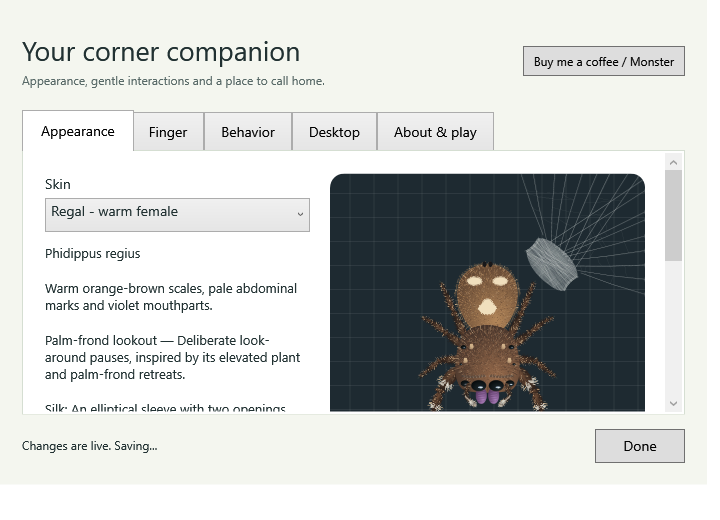
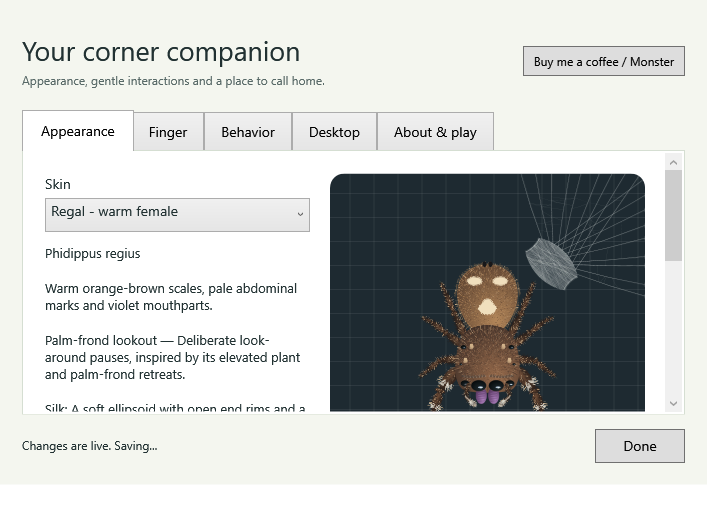
Show only the original QR in the optional support flyout

Changed region(s): [[0.7333, 0.3385, 0.8861, 0.5538], [0.1222, 0.7692, 0.4278, 0.8]]

diff --git a/SupportBanner.cs b/SupportBanner.cs
@@ -1,5 +1,4 @@
 using System;
-using System.Diagnostics;
 using System.Windows;
 using System.Windows.Controls;
 using System.Windows.Controls.Primitives;
@@ -9,9 +8,8 @@ using System.Windows.Media.Imaging;
 
 namespace CornerSpider {
     public static class SupportBanner {
-        // Public recipient supplied by the creator. No payment credentials or SDK.
-        public const string CashTag="$tedparkes";
-        public const string PaymentUrl="https://cash.app/$tedparkes?qr=1";
+        // The creator's original payment QR is the only support destination.
+        // No recipient text, browser launch, payment credentials or SDK.
         static BitmapImage qr;
         public static BitmapImage Qr { get {
             if(qr==null) using(var stream=typeof(SupportBanner).Assembly.GetManifestResourceStream("CornerSpider.SupportQr.png")) {
@@ -20,19 +18,9 @@ namespace CornerSpider {
             }
             return qr;
         } }
-        public static bool ValidPaymentLink(string value) {
-            Uri uri;
-            return Uri.TryCreate(value,UriKind.Absolute,out uri) && uri.Scheme=="https" && uri.Host=="cash.app" && uri.IsDefaultPort && uri.UserInfo.Length==0 && uri.Fragment.Length==0 && uri.AbsolutePath=="/$tedparkes" && (uri.Query.Length==0 || uri.Query=="?qr=1");
-        }
-        public static bool OpenPayment(bool diagnostic) {
-            if(diagnostic || !ValidPaymentLink(PaymentUrl)) return false;
-            try { Process.Start(new ProcessStartInfo(PaymentUrl) { UseShellExecute=true });return true; }
-            catch(System.ComponentModel.Win32Exception) { return false; }
-            catch(InvalidOperationException) { return false; }
-        }
         static TextBlock Label(string text,double size) { return new TextBlock { Text=text,FontSize=size,TextWrapping=TextWrapping.Wrap,Foreground=new SolidColorBrush(Color.FromRgb(32,55,43)),Margin=new Thickness(0,0,0,5) }; }
-        public static FrameworkElement Create(Window owner,bool diagnostic,out Button supportButton) {
-            var button=new Button { Content="Buy me a coffee / Monster",FontSize=12,Padding=new Thickness(10,6,10,6),Margin=new Thickness(18,0,0,10),VerticalAlignment=VerticalAlignment.Center,ToolTip="Optional support — show the Cash App link and QR" };
+        public static FrameworkElement Create(Window owner,out Button supportButton) {
+            var button=new Button { Content="Buy me a coffee / Monster",FontSize=12,Padding=new Thickness(10,6,10,6),Margin=new Thickness(18,0,0,10),VerticalAlignment=VerticalAlignment.Center,ToolTip="Optional support — show the Cash App QR code" };
             supportButton=button;
             System.Windows.Automation.AutomationProperties.SetName(button,"Buy me a coffee / Monster");
             var popup=new Popup { PlacementTarget=button,Placement=PlacementMode.Bottom,AllowsTransparency=true,StaysOpen=false };
@@ -41,10 +29,8 @@ namespace CornerSpider {
             panel.Children.Add(Label("Buy me a coffee / Monster",19));
             panel.Children.Add(Label("Optional support. Corner Spider stays free.",12));
             var code=new Image { Source=Qr,Width=272,Height=272,Stretch=Stretch.Uniform,Margin=new Thickness(0,8,0,12) };
-            System.Windows.Automation.AutomationProperties.SetName(code,"Original Cash App QR for "+CashTag);panel.Children.Add(code);
-            var link=new Button { Content="Open Cash App · "+CashTag+"  ↗",Padding=new Thickness(8,6,8,6),ToolTip=PaymentUrl };
-            link.Click+=delegate { if(!OpenPayment(diagnostic) && !diagnostic) MessageBox.Show(owner,"Couldn't open your browser. You can scan the QR or visit "+PaymentUrl,"Cash App"); };
-            panel.Children.Add(link);
+            System.Windows.Automation.AutomationProperties.SetName(code,"Cash App support QR code. Scan with your phone.");panel.Children.Add(code);
+            panel.Children.Add(Label("Scan with your phone to support Corner Spider.",12));
             var close=new Button { Content="Close",Margin=new Thickness(0,10,0,0),Padding=new Thickness(12,5,12,5),HorizontalAlignment=HorizontalAlignment.Right };
             close.Click+=delegate { popup.IsOpen=false;button.Focus(); };panel.Children.Add(close);
             popup.Child=new Border { Child=panel,Padding=new Thickness(18),CornerRadius=new CornerRadius(9),Background=Brushes.White,BorderBrush=new SolidColorBrush(Color.FromRgb(185,200,185)),BorderThickness=new Thickness(1) };

diff --git a/PetSettingsWindow.cs b/PetSettingsWindow.cs
@@ -52,7 +52,7 @@ namespace CornerSpider {
             var header=new Grid();header.ColumnDefinitions.Add(new ColumnDefinition());header.ColumnDefinitions.Add(new ColumnDefinition { Width=GridLength.Auto });DockPanel.SetDock(header,Dock.Top);root.Children.Add(header);
             var heading=new StackPanel { Margin=new Thickness(0,10,0,6),VerticalAlignment=VerticalAlignment.Center };header.Children.Add(heading);
             heading.Children.Add(Text("Your corner companion",27));Note(heading,"Appearance, gentle interactions and a place to call home.");
-            Button supportButton;var support=SupportBanner.Create(this,host.TestMode,out supportButton);SupportButton=supportButton;Grid.SetColumn(support,1);header.Children.Add(support);
+            Button supportButton;var support=SupportBanner.Create(this,out supportButton);SupportButton=supportButton;Grid.SetColumn(support,1);header.Children.Add(support);
             var bottom=new DockPanel { Margin=new Thickness(0,14,0,0) };DockPanel.SetDock(bottom,Dock.Bottom);root.Children.Add(bottom);
             var done=new Button { Content="Done",Width=90,Height=34,IsCancel=true };DockPanel.SetDock(done,Dock.Right);bottom.Children.Add(done);done.Click+=delegate { Close(); };
             saveStatus=Text("Changes apply live and save automatically.",12);saveStatus.VerticalAlignment=VerticalAlignment.Center;bottom.Children.Add(saveStatus);
@@ -143,7 +143,7 @@ namespace CornerSpider {
             var help=NewPanel();help.Children.Add(Text("A quiet little desktop companion",21));
             Note(help,"Approach an awake spider and hold still for the configured invitation delay. The finger fades in; the spider can jump on, hang, climb and wander. Move gently to carry it. A click lets it plan an upward hop; a fast move startles it. The finger holds still until takeoff, and your pointer returns immediately. Your clicks still reach your apps.");
             Note(help,"It watches from corners, stalks occasional flies and returns to its silk retreat. Use the tray's quick actions to feed, call it home, wake or pause it. Double-click the tray icon to reopen these settings.");
-            Note(help,"Corner Spider 1.0 RC13\nFree software under the MIT License. The pet works offline with no accounts or telemetry. Optional Cash App support opens your browser only when clicked. Preferences are stored in LocalAppData\\CornerSpider. See README.txt for removal and manual checks.");
+            Note(help,"Corner Spider 1.0 RC14\nFree software under the MIT License. The pet works offline with no accounts or telemetry. Optional support shows a Cash App QR code to scan with your phone. Preferences are stored in LocalAppData\\CornerSpider. See README.txt for removal and manual checks.");
             Note(help,"Future ideas: custom colors by body region; crickets, mealworms and other prey; additional spider species; an optional background with depth to explore.");AddTab("About & play",help);
             saveTimer.Tick+=delegate { saveTimer.Stop();host.Save();saveStatus.Text=host.Settings.LastError.Length==0?"Saved. Changes are live on your desktop.":"Could not save preferences. Check that your save folder is writable."; };
             Closed+=delegate { IsClosed=true;saveTimer.Stop();encounterTimer.Stop();Preview.Dispose();host.Save(); };

diff --git a/EncounterPreview.cs b/EncounterPreview.cs
@@ -97,8 +97,6 @@ namespace CornerSpider {
             host.World.GoHome();host.SetSpecies("PortiaLabiata");var panel=new PetSettingsWindow(host);
             var popup=(System.Windows.Controls.Primitives.Popup)panel.SupportButton.Tag;
             Check(panel.SupportButton.Content is string && !popup.IsOpen && SupportBanner.Qr.PixelWidth==545,"support starts as a quiet text button and retains the original QR");
-            Check(SupportBanner.ValidPaymentLink(SupportBanner.PaymentUrl) && !SupportBanner.OpenPayment(true),"support uses the public Cash App recipient; diagnostics never open payment pages");
-            foreach(string bad in new[]{"http://cash.app/$tedparkes","https://cash.app.evil.example/$tedparkes","https://other@cash.app/$tedparkes","file:///tmp/pay","https://cash.app/$someoneelse","https://cash.app/$tedparkes?amount=100"}) Check(!SupportBanner.ValidPaymentLink(bad),"reject unexpected support target: "+bad);
             panel.TraitsCheck.IsChecked=false;panel.WebVisitsCheck.IsChecked=false;host.Save();var s=Settings.Load(host.Folder);
             Check(!s.SpeciesTraits && !s.WebVisits,"new behavior controls persist through native UI");
             panel.TraitsCheck.IsChecked=true;panel.WebVisitsCheck.IsChecked=true;
@@ -112,10 +110,14 @@ namespace CornerSpider {
             Check(buttonBounds.Left>=0 && buttonBounds.Right<=root.ActualWidth && buttonBounds.Bottom<=root.ActualHeight,"support button stays inside compact settings bounds");
             panel.SupportButton.RaiseEvent(new RoutedEventArgs(Button.ClickEvent));panel.UpdateLayout();
             var flyout=(FrameworkElement)popup.Child;flyout.Measure(new Size(400,600));flyout.Arrange(new Rect(new Point(),flyout.DesiredSize));flyout.UpdateLayout();
-            Check(popup.IsOpen && !popup.StaysOpen,"button opens a dismissible QR and link flyout without launching a browser");
+            Check(popup.IsOpen && !popup.StaysOpen,"button opens a dismissible QR-only flyout");
             SavePng(flyout,(int)Math.Ceiling(flyout.ActualWidth),(int)Math.Ceiling(flyout.ActualHeight),Path.Combine(folder,"support-flyout.png"));
             var contents=(StackPanel)((Border)popup.Child).Child;var image=(Image)contents.Children[2];
             Check(image.ActualWidth==272 && image.Source==SupportBanner.Qr,"flyout displays the original recognizable QR at scanning size");
+            int actions=0;foreach(UIElement child in contents.Children) if(child is Button) {
+                actions++;Check(((Button)child).Content as string=="Close","QR flyout has no payment-link action");
+            }
+            Check(actions==1,"Close is the only action inside the QR flyout");
             ((Button)contents.Children[contents.Children.Count-1]).RaiseEvent(new RoutedEventArgs(Button.ClickEvent));Check(!popup.IsOpen,"flyout close button works");
             panel.SupportButton.RaiseEvent(new RoutedEventArgs(Button.ClickEvent));panel.Close();Check(!popup.IsOpen,"closing settings also closes its flyout");
             CheckGuestSilkRendering();RenderEncounterPreview(folder);

diff --git a/JumpingSpider.cs b/JumpingSpider.cs
@@ -13,7 +13,7 @@ using Forms=System.Windows.Forms;
 [assembly:System.Runtime.Versioning.TargetFramework(".NETFramework,Version=v4.8")]
 [assembly:System.Reflection.AssemblyVersion("1.0.0.0")]
 [assembly:System.Reflection.AssemblyFileVersion("1.0.0.0")]
-[assembly:System.Reflection.AssemblyInformationalVersion("1.0.0-rc.13")]
+[assembly:System.Reflection.AssemblyInformationalVersion("1.0.0-rc.14")]
 [assembly:System.Reflection.AssemblyTitle("Corner Spider")]
 [assembly:System.Reflection.AssemblyProduct("Corner Spider")]
 [assembly:System.Reflection.AssemblyDescription("A local jumping-spider companion for the Windows desktop.")]
@@ -262,7 +262,7 @@ namespace CornerSpider {
             }
         }
         void BuildTray() {
-            Menu=new Forms.ContextMenuStrip();Menu.Opening+=delegate { CursorVisibility.Release(); };Menu.Items.Add(new Forms.ToolStripMenuItem("CORNER SPIDER  1.0 RC13") { Enabled=false });
+            Menu=new Forms.ContextMenuStrip();Menu.Opening+=delegate { CursorVisibility.Release(); };Menu.Items.Add(new Forms.ToolStripMenuItem("CORNER SPIDER  1.0 RC14") { Enabled=false });
             var status=new Forms.ToolStripMenuItem { Enabled=false };Menu.Items.Add(status);
             Menu.Opening+=delegate { status.Text=(World.GuestStatus.Length>0?World.GuestStatus:World.State.ToString())+"  |  "+World.Meals+" prey caught"+(Settings.LastError.Length>0?"  |  Save failed":""); };
             Menu.Items.Add(new Forms.ToolStripSeparator());

diff --git a/RuntimeTests.cs b/RuntimeTests.cs
@@ -40,7 +40,7 @@ namespace CornerSpider {
                 using(var icon=PetHost.MakeIcon("Bold")) using(var file=File.Create(Path.Combine(folder,"CornerSpider.ico"))) icon.Save(file);
                 return 0;
             }
-            log=new StringBuilder();log.AppendLine("Corner Spider 1.0 RC13 Windows runtime checks "+DateTime.Now.ToString("s"));
+            log=new StringBuilder();log.AppendLine("Corner Spider 1.0 RC14 Windows runtime checks "+DateTime.Now.ToString("s"));
             string testSettings=Path.Combine(folder,"settings");Check(new Settings { FingerTone=.37,Species="PortiaLabiata" }.Save(testSettings),"seed isolated finger-tone and Portia preferences");
             IntPtr foreground=Native.GetForegroundWindow();var host=new PetHost(testSettings,true);
             IntPtr afterCreation=Native.GetForegroundWindow();uint foregroundPid,afterCreationPid;

diff --git a/docs/VERIFICATION.md b/docs/VERIFICATION.md
@@ -1,56 +1,38 @@
-# Verification for 1.0.0-rc.13
+# Verification for 1.0.0-rc.14
 
-Local Windows verification, October 27, 2026. RC12 source, executable, packages
-and Git tag were preserved before changing retreat artwork.
-
-## Behavior and geometry
+Local Windows verification, October 27, 2026. RC13 packages, source and Git tag
+are preserved. This release simplifies the optional support flyout only.
 
 The Windows .NET Framework build and complete deterministic behavior suite pass.
-See [behavior output](behavior-checks.txt). This includes 184 travel routes,
-4,574 pounce hunts, 56 complete Portia web hunts, cursor play, settings persistence,
-species anatomy, multiple-monitor routing and nest entry/exit.
+See [behavior output](behavior-checks.txt). No spider behavior or artwork changed.
 
-The hammock suite adds 4,060 checks across all twenty skins. Every new outline
-stays within the existing route clearance and leaves room before both entry
-waypoints. The full suite retains its size, simulated DPI, four-corner, fixed
-joint, tuck, wake and display-reflow coverage. No behavior tests were weakened.
+The existing native settings checks were updated for QR-only support. They
+exercise the original QR image at 272 logical pixels, compact settings layout,
+open/close behavior, closing the owner window, and verify that Close is the only
+button inside the flyout. Obsolete URL-validation checks were removed with the
+URL and browser-launch implementation. Settings persistence, web-visit toggles
+and guest-silk rendering checks in the same native routine also pass.
+See [native results](support-checks.txt) and the [flyout](support-flyout.png).
+The resulting flyout and settings screenshots were visually inspected.
 
-## Native WPF artwork
+SupportQr.png remains byte-for-byte identical to RC13. It retains the same public
+payment destination. There is no visible username label, recipient tooltip or
+clickable payment link. No payment or phone-scanning test was performed here.
+Earlier releases decoded the original QR and actual rendered flyout successfully.
 
-Run `JumpingSpider.exe --silk-test <output-folder>` for the focused silk diagnostic.
-It exercises all twenty skins, four corners, edge anchoring, retained artwork,
-opacity changes, species switching and monotonically increasing silk growth.
-It also renders vector silk at 20%, 100% and 180%, checks all 55 pairs of the
-eleven species silhouettes before texture, and checks that Portia's central
-platform remains uncovered while the Regal retreat has a veil.
+Both ZIPs are checked entry by entry. The extracted source rebuilds with the
+complete suite. The installed executable matches the extracted Windows package,
+and the Desktop shortcut points to it. Package and launch evidence is recorded
+beside the archives. Source bytes match the local Git repository.
 
-An initial check found Bold and Pantropical too similar. Pantropical's outline
-and outer mesh were revised; the silhouette threshold was retained.
-See [native results](silk-render-checks.txt), the retreat comparisons on
-[dark](species-retreats-dark.png) and [light](species-retreats-light.png)
-backgrounds, and [all twenty settings previews](retreat-settings.png).
-The rendered comparisons and corner/tuck panels were visually inspected.
+The full native overlay, cursor and tray suite was not repeated for this small
+UI change; see [RC10 verification](VERIFICATION-RC10.md). The retreat rendering
+checks passed on RC13; see [RC13 verification](VERIFICATION-RC13.md). Physical
+mixed-DPI changes, sleep/resume and a long resource soak remain manual checks.
 
-The two retained silk layers are replaced when species, growth level or corner
-geometry changes. They are reused during ordinary animation and opacity changes;
-there is no accumulating per-growth-stage cache. Artwork is generated locally.
+Manual check: open Settings, click Buy me a coffee / Monster, scan the QR on your
+phone and verify the recipient before deciding whether to send any payment.
+Close the flyout with Close, Escape or an outside click.
 
-## Packages and scope
-
-Both release ZIPs are verified entry by entry. Extracted source rebuilds with the
-complete suite. The extracted portable executable reproduces the species-retreat
-and corner/tuck previews. Source bytes match the local Git repository. The
-installed executable matches the portable ZIP; the existing Desktop shortcut
-continues to target that build. The release folder records package verification
-and a short launch/resource sample.
-
-The full native overlay, tray, cursor-restoration and focus suite last passed on
-RC10; [those results](VERIFICATION-RC10.md) remain available. It was not repeated
-in full for this artwork change. Physical mixed-DPI changes, unplug/reconnect,
-sleep/resume and a long resource soak remain manual checks.
-
-Before a public release: compare the shelters in Appearance, try the web-visibility
-and size sliders, send the spider home, and watch entry, sleep and exit at your
-preferred size. Check the silk against your normal wallpaper and on both screens.
-The hosted download remains private to the user's ChatGPT account; no public
+The hosted packages remain private to the user's ChatGPT account. No public
 GitHub release has been published.

diff --git a/docs/SUPPORT.md b/docs/SUPPORT.md
@@ -1,34 +1,27 @@
 # Optional Cash App support
 
-The creator supplied the original QR card and requested its recognizable Cash App
-appearance. SupportQr.png is a lossless PNG crop of that supplied JPEG's decoded
-pixels. The surrounding phone screenshot is not distributed. The QR decodes to:
+The small "Buy me a coffee / Monster" button opens a flyout containing the
+creator's original Cash App QR at 272 pixels, a scanning instruction and Close.
+There is no username label, clickable payment link, recipient tooltip or browser
+launch. Close, Escape, an outside click or closing settings dismisses the flyout.
+The QR is bundled locally; opening the flyout makes no network request.
 
-`https://cash.app/$tedparkes?qr=1`
+SupportQr.png is a lossless PNG crop of the supplied JPEG's decoded pixels.
+The surrounding phone screenshot is not distributed. Its original payment
+recipient is unchanged. Scanning still reveals the same public Cash App profile;
+removing the text label does not make the payment destination anonymous.
 
-The settings link uses that same recipient. The QR is bundled and embedded, with
-no remote image request. The small "Buy me a coffee / Monster" button opens a
-flyout containing the original QR at 272 pixels and the recipient link. Close,
-Escape, an outside click or closing settings dismisses the flyout. Clicking the
-recipient link opens the default browser; nothing opens automatically. There is no
-payment SDK, account connection, login form, stored financial data or automatic
-payment. Donations are optional and do not unlock features.
+There is no payment SDK, account connection, login form, stored financial data
+or automatic payment. Support is optional and does not unlock features.
+Check the recipient in Cash App before sending a payment.
 
-[Cash App's official instructions](https://cash.app/learn/getting-started/how-to-send-and-receive-money)
-describe sharing a cashtag or payment link to receive money. This exposes the
-public payment profile and may reveal the profile name; it does not itself grant
-account access. Never put a login code or PIN in the app or repository.
-[Cash App security guidance](https://cash.app/security) covers account protections.
-Recipients and senders should verify the profile before transferring money.
-No transfer or account-login test was performed for this release.
-
-Cash App branding belongs to its respective owner and is used here to identify
-the optional payment destination. The MIT license covers the project's code and
+Cash App branding belongs to its respective owner and is used to identify the
+optional payment destination. The MIT license covers the project's code and
 original procedural spider art; it does not grant rights to third-party trademarks
-or imply endorsement. A fork should deliberately review the recipient. If changing
-it, replace the QR, PaymentUrl, CashTag and corresponding validation/tests together.
+or imply endorsement. A fork should deliberately review its payment recipient
+and verify any replacement QR. Never include login codes or account credentials.
 
-Validation: the supplied original and crop decode identically. Local checks decoded
-the crop at 112/128/144/168/320/420/545 pixels in earlier releases. RC10 also
-decodes the actual WPF flyout capture to the same address. Phone scanning and a real
-donation remain manual checks. Diagnostic modes never open payment pages.
+Validation: the QR asset remains byte-for-byte identical to RC13. Earlier checks
+decoded the supplied original, crop and rendered WPF flyout to the same payment
+profile. RC14 checks the QR-only controls, original image, compact layout and
+open/close behavior. No payment or account-login test was performed.

diff --git a/docs/VERIFICATION-RC13.md b/docs/VERIFICATION-RC13.md
@@ -1,0 +1,56 @@
+# Verification for 1.0.0-rc.13
+
+Local Windows verification, October 27, 2026. RC12 source, executable, packages
+and Git tag were preserved before changing retreat artwork.
+
+## Behavior and geometry
+
+The Windows .NET Framework build and complete deterministic behavior suite pass.
+See [behavior output](behavior-checks.txt). This includes 184 travel routes,
+4,574 pounce hunts, 56 complete Portia web hunts, cursor play, settings persistence,
+species anatomy, multiple-monitor routing and nest entry/exit.
+
+The hammock suite adds 4,060 checks across all twenty skins. Every new outline
+stays within the existing route clearance and leaves room before both entry
+waypoints. The full suite retains its size, simulated DPI, four-corner, fixed
+joint, tuck, wake and display-reflow coverage. No behavior tests were weakened.
+
+## Native WPF artwork
+
+Run `JumpingSpider.exe --silk-test <output-folder>` for the focused silk diagnostic.
+It exercises all twenty skins, four corners, edge anchoring, retained artwork,
+opacity changes, species switching and monotonically increasing silk growth.
+It also renders vector silk at 20%, 100% and 180%, checks all 55 pairs of the
+eleven species silhouettes before texture, and checks that Portia's central
+platform remains uncovered while the Regal retreat has a veil.
+
+An initial check found Bold and Pantropical too similar. Pantropical's outline
+and outer mesh were revised; the silhouette threshold was retained.
+See [native results](silk-render-checks.txt), the retreat comparisons on
+[dark](species-retreats-dark.png) and [light](species-retreats-light.png)
+backgrounds, and [all twenty settings previews](retreat-settings.png).
+The rendered comparisons and corner/tuck panels were visually inspected.
+
+The two retained silk layers are replaced when species, growth level or corner
+geometry changes. They are reused during ordinary animation and opacity changes;
+there is no accumulating per-growth-stage cache. Artwork is generated locally.
+
+## Packages and scope
+
+Both release ZIPs are verified entry by entry. Extracted source rebuilds with the
+complete suite. The extracted portable executable reproduces the species-retreat
+and corner/tuck previews. Source bytes match the local Git repository. The
+installed executable matches the portable ZIP; the existing Desktop shortcut
+continues to target that build. The release folder records package verification
+and a short launch/resource sample.
+
+The full native overlay, tray, cursor-restoration and focus suite last passed on
+RC10; [those results](VERIFICATION-RC10.md) remain available. It was not repeated
+in full for this artwork change. Physical mixed-DPI changes, unplug/reconnect,
+sleep/resume and a long resource soak remain manual checks.
+
+Before a public release: compare the shelters in Appearance, try the web-visibility
+and size sliders, send the spider home, and watch entry, sleep and exit at your
+preferred size. Check the silk against your normal wallpaper and on both screens.
+The hosted download remains private to the user's ChatGPT account; no public
+GitHub release has been published.

diff --git a/README.md b/README.md
@@ -1,4 +1,4 @@
-# Corner Spider 1.0 RC13
+# Corner Spider 1.0 RC14
 
 A small jumping spider for your actual Windows desktop. It watches from corners,
 stalks occasional prey, builds a silk retreat and sometimes accepts a finger ride.
@@ -42,7 +42,7 @@ and matte shading. The larger preview retains each species' details.
 
 ![Settings with silk visibility and the subtle optional support button](docs/settings-banner.png)
 
-This is the **1.0.0-rc.13 release candidate**. Windows build and automated checks
+This is the **1.0.0-rc.14 release candidate**. Windows build and automated checks
 pass; the remaining hands-on release checklist is in [verification notes](docs/VERIFICATION.md).
 
 ## Download and start
@@ -53,7 +53,7 @@ permanent writable location, and double-click **JumpingSpider.exe** or
 
 Windows 10/11 with .NET Framework 4.8 desktop components. No administrator rights,
 installer, accounts or asset downloads. The pet works offline; the optional
-support link opens Cash App in your browser only when clicked. Only one pet runs per
+support button shows a Cash App QR to scan with your phone. Only one pet runs per
 Windows session. This is an unsigned community build; Windows may display an
 unknown-publisher warning. The release includes SHA-256 checksums.
 
@@ -209,9 +209,9 @@ The green Hyllus's heavier tempo is explicitly an artistic choice.
 ## Optional support
 
 The small **Buy me a coffee / Monster** button opens a flyout with the creator's
-original Cash App QR, including its green logo. Click **$tedparkes** inside the
-flyout to open the matching public Cash App page in your browser. Corner
-Spider remains free. It has no payment SDK, login form or automatic payment flow.
+original Cash App QR, including its green logo. Scan it with your phone to support
+the project. The flyout has no username label or clickable payment link. Corner
+Spider remains free. It has no browser launch, payment SDK, login form or automatic payment flow.
 Check the recipient in Cash App before paying. Sharing the code makes the public
 payment profile discoverable; it is not a login credential.
 
@@ -246,8 +246,9 @@ explain the artwork choices. No reference photos are bundled.
 
 Preferences, silk progress and meal count stay in
 `%LOCALAPPDATA%\CornerSpider\settings.txt`; `.bak` keeps the previous save.
-Existing saves migrate automatically. The pet makes no network requests. The optional support button delegates to your
-browser; its page is governed by Cash App. There is no telemetry, keyboard
+Existing saves migrate automatically. The pet makes no network requests. Optional
+support displays a bundled QR image; scanning it opens Cash App on your phone.
+There is no telemetry, keyboard
 hook, mouse injection or capture. A read-only mouse hook observes button-down edges
 and immediately forwards them. It stores no click history.
 

diff --git a/RELEASING.md b/RELEASING.md
@@ -42,9 +42,9 @@ The portable executable is unsigned. Do not claim it is signed, security-certifi
 or tested on systems that were not exercised. Code signing is a future improvement.
 
 Before final 1.0, complete the manual checklist and update the informational
-version from 1.0.0-rc.13 to 1.0.0. Retest the exact release contents. The optional
+version from 1.0.0-rc.14 to 1.0.0. Retest the exact release contents. The optional
 support QR intentionally identifies the creator; review docs/SUPPORT.md before
-redistributing a fork. Keep this recipient or replace both QR and link deliberately.
+redistributing a fork. Keep this recipient or deliberately replace and verify the QR.
 
 When bumping the final version, move completed Unreleased entries into its
 changelog section, refresh docs/VERIFICATION.md and regenerate the packages and

diff --git a/CHANGELOG.md b/CHANGELOG.md
@@ -2,6 +2,13 @@
 
 ## Unreleased
 
+## 1.0.0-rc.14
+
+- Make optional support QR-only: remove the visible Cash App username, payment
+  link, recipient tooltip and browser-launch code. Keep the original recognizable
+  QR, a short scanning instruction and the Close button.
+- Update support documentation and native flyout checks for the simplified UI.
+
 ## 1.0.0-rc.13
 
 - Give the eleven species families distinct retreat silhouettes instead of
